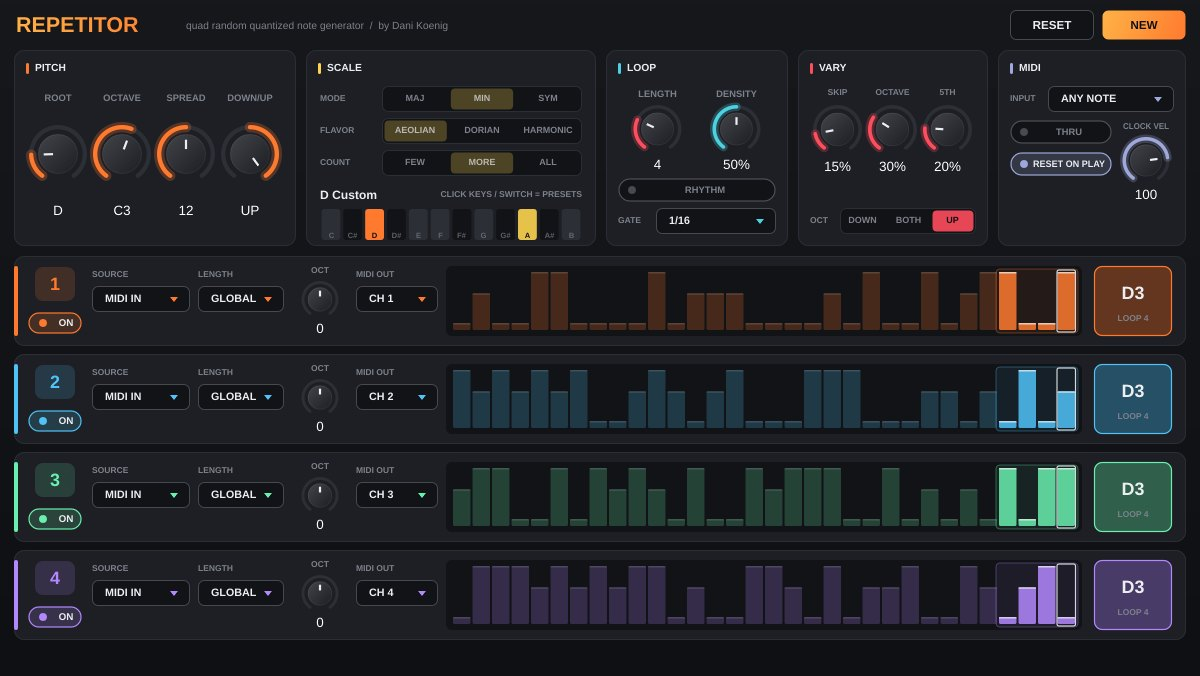
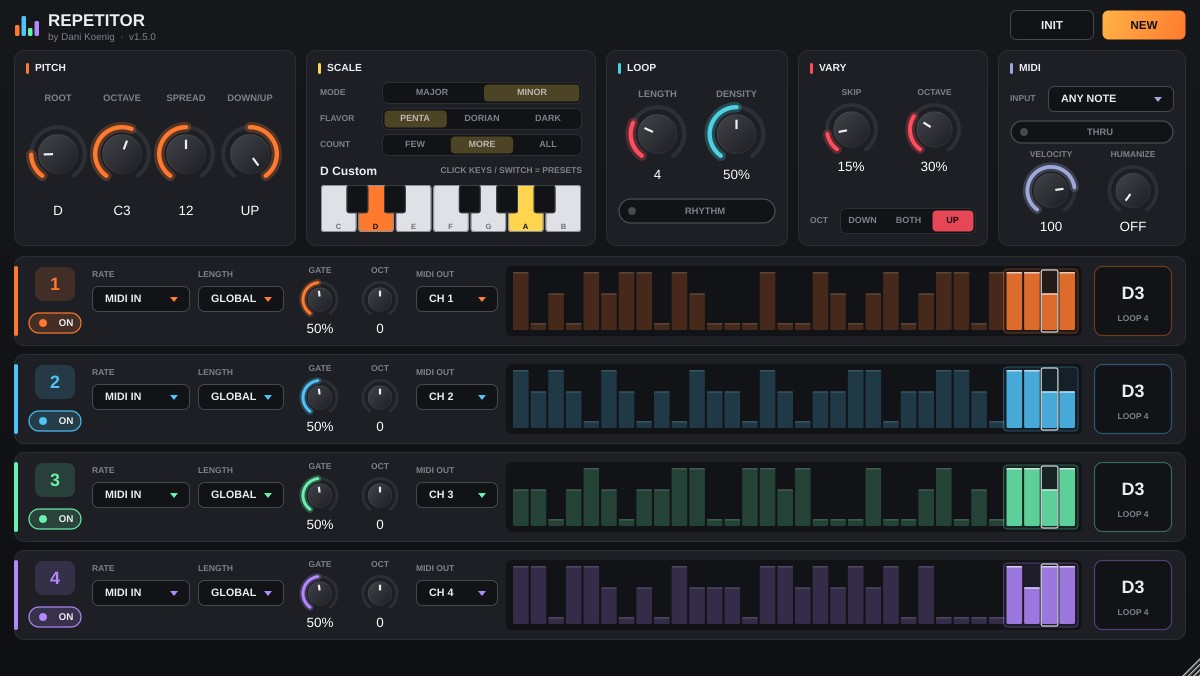
Repetitor 1.5: new texts and screenshot, Drift Station 0.3.2
Claude-Session: https://claude.ai/code/session_01DHh9Xk616RQNm7bRET3SrX

diff --git a/index.html b/index.html
@@ -173,13 +173,13 @@ footer p{margin:0;max-width:60ch}
      sub:'Sample player with 4 slots. Blend four samples with one dot on the XY pad.',
      feat:['4 slots with edit row: start, level, pan, envelope, pitch, tone, cut','Pitch detection and Key Sync to a lead slot','Delay, reverb and clipper in a chain you can reorder','Shares the library with One Shooter'],
      meta:['VST3','AU','Instrument'], reel:'jHZN9FCeQIA'},
-    {line:'fx', repo:'DriftStation', name:'Drift Station', ver:'0.3.1', c:'var(--cy)', img:'drift-station',
+    {line:'fx', repo:'DriftStation', name:'Drift Station', ver:'0.3.2', c:'var(--cy)', img:'drift-station',
      sub:'Drifting memory processor. Records what you feed it and keeps recombining it into evolving drones.',
      feat:['2 Delays, 4 Delays, Giant Reverb and Granular, each in 3 sizes','Pitch stays steady, made for soloing over a recorded drone','Transpose -24 to +12, feedback up to 1.25 with soft limiter','Slow left-right sway like the hardware, resizable window'],
      meta:['VST3','AU','Standalone','Audio effect'], reel:'9O9eUDGFMPw'},
-    {line:'midi', repo:'Repetitor', name:'Repetitor', ver:'1.0.0', c:'var(--vi)', img:'repetitor',
-     sub:'Quad random quantized note generator. Every trigger makes a new note in your scale, turn Length down to loop it.',
-     feat:['4 channels on their own MIDI channels, MIDI in or internal clock','27 scales plus custom scale on the mini keyboard','Vary: skipped notes, octave jumps and fifths by chance','Repetitor Instrument for Ableton Live (MIDI out to other tracks)'],
+    {line:'midi', repo:'Repetitor', name:'Repetitor', ver:'1.5.1', c:'var(--vi)', img:'repetitor',
+     sub:'Quad random quantized note generator. Press play and four channels make new notes in your scale. Like it? Loop it.',
+     feat:['4 channels with their own rate and gate, runs right away or on MIDI in','Move the loop box or draw your own loop, 1 to 32 steps','18 scales plus your own scale on the piano keys','Vary and humanize: skipped notes, octave jumps, velocity','Repetitor Instrument for Ableton Live (MIDI out to other tracks)'],
      meta:['VST3','AU','MIDI effect'], reel:'', manual:true}
   ];
   const ico = {
